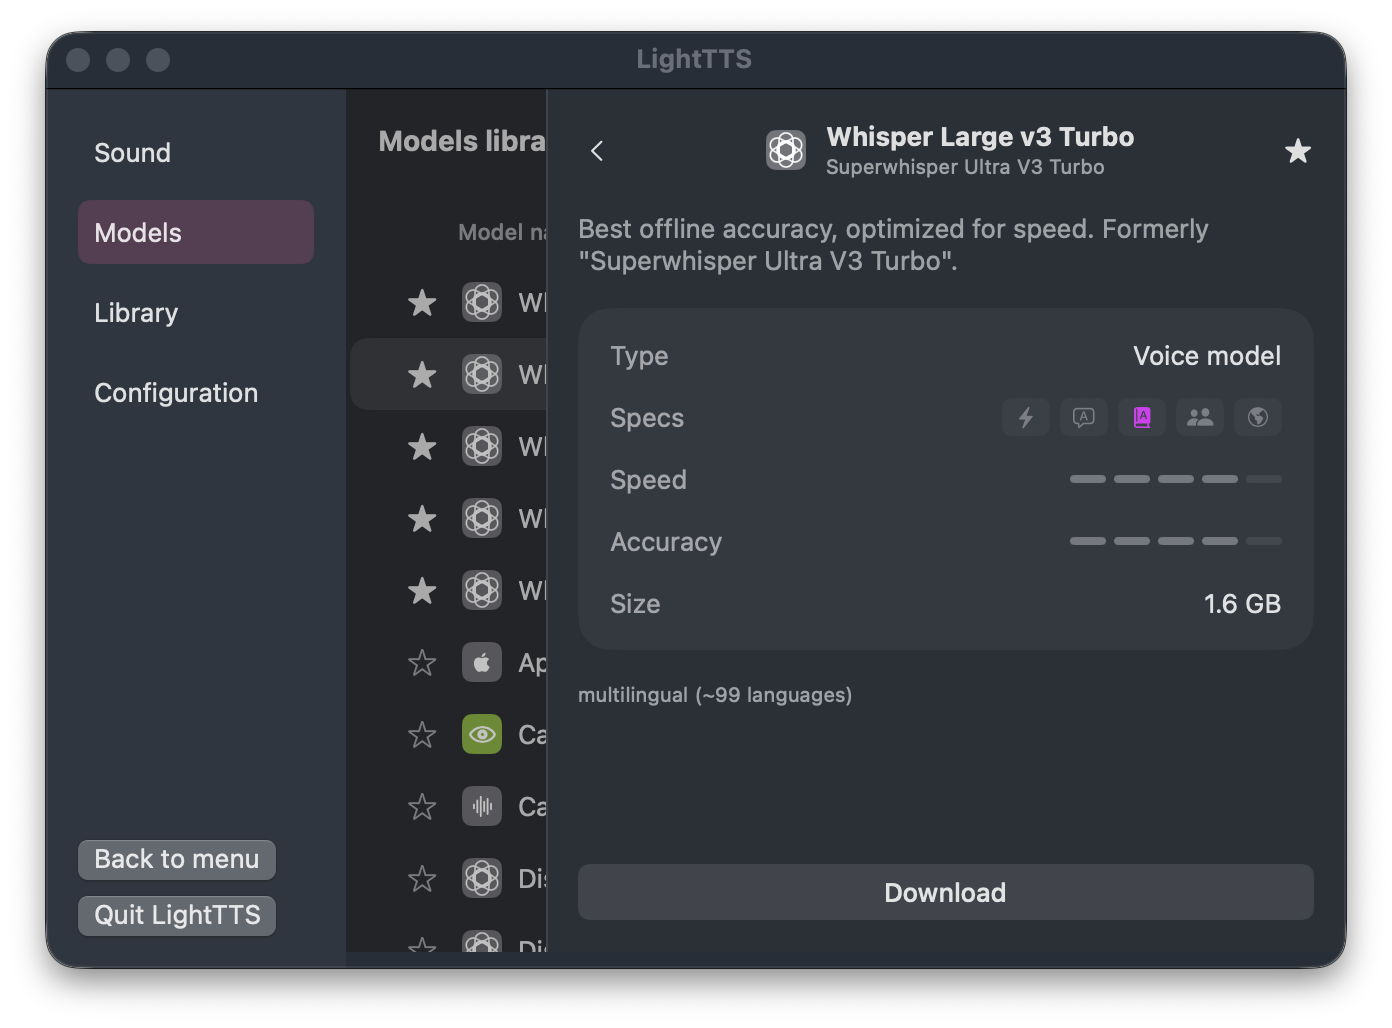
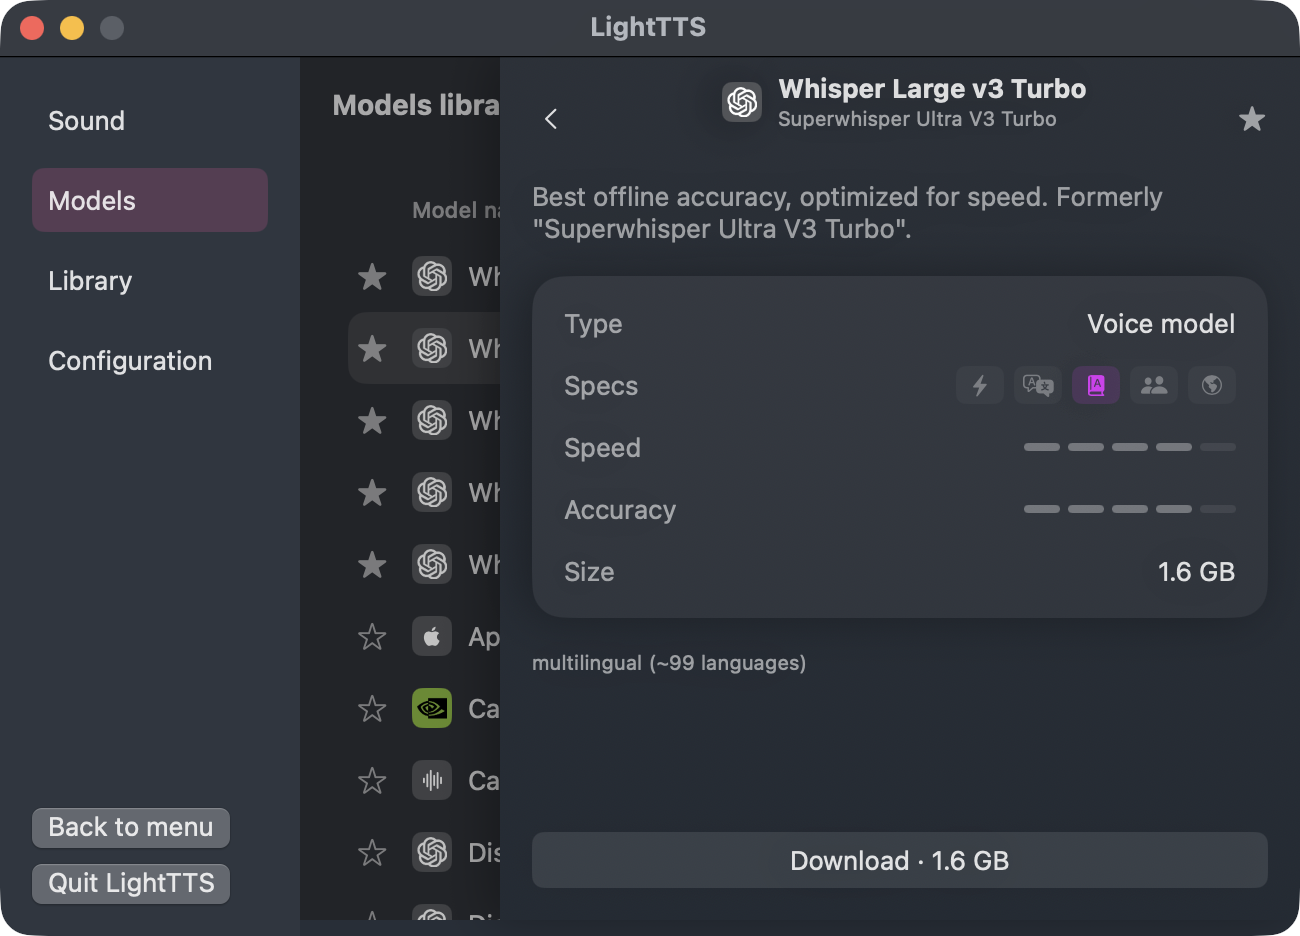
Refine models library reference styling

diff --git a/Sources/LightTTS/Views/Settings/Models/ModelsPageView.swift b/Sources/LightTTS/Views/Settings/Models/ModelsPageView.swift
@@ -9,7 +9,6 @@ private final class ModelsPageState: ObservableObject {
     @Published var detail: Model?
     @Published var custom = false
     @Published var cloud = false
-    @Published var deleting: Model?
     @Published var sortColumn = ""
     @Published var ascending = true
 }
@@ -23,6 +22,7 @@ private final class CustomModelState: ObservableObject {
 
 struct ModelsPageView: View {
     @ObservedObject var controller: AppController
+    @Binding var deleting: Model?
     @Environment(\.colorScheme) private var colorScheme
     @AppStorage("selectedModel") private var selectedModel = "whisper-tiny.en"
     @AppStorage("favoriteModels") private var favorites = "whisper-large-v3,whisper-large-v3-turbo,whisper-medium,whisper-small,whisper-small.en"
@@ -58,10 +58,10 @@ struct ModelsPageView: View {
                         Image(systemName: "magnifyingglass").foregroundStyle(.secondary)
                         TextField("Search models", text: $ui.query).textFieldStyle(.plain)
                         if !ui.query.isEmpty { Button { ui.query = "" } label: { Image(systemName: "xmark.circle.fill").foregroundStyle(.secondary) }.buttonStyle(.plain).help("Clear search") }
-                    }.font(.system(size: 13)).padding(.horizontal, 10).frame(width: 220, height: 28).background(Color.primary.opacity(0.08), in: Capsule()).overlay(Capsule().stroke(Color.primary.opacity(0.13), lineWidth: 0.5))
+                    }.font(.system(size: 13)).padding(.horizontal, 10).frame(width: 220, height: 28).background(.ultraThinMaterial, in: Capsule()).overlay(Capsule().stroke(Color.primary.opacity(0.14), lineWidth: 0.5)).overlay(Capsule().stroke(Color.white.opacity(colorScheme == .light ? 0.4 : 0.08), lineWidth: 0.5).padding(1))
                 } else { Button { ui.searching = true } label: { Image(systemName: "magnifyingglass") }.buttonStyle(CircleButton()).help("Search") }
                 Menu { Toggle("Downloaded only", isOn: $ui.installedOnly) } label: { toolbarIcon("line.3.horizontal.decrease") }.menuStyle(.borderlessButton).menuIndicator(.hidden).frame(width: 28, height: 28).background(Color.primary.opacity(0.07), in: Circle()).overlay(Circle().stroke(Color.primary.opacity(0.12), lineWidth: 0.5)).help("Filters")
-                Menu { Button("Add cloud model…") { ui.cloud = true }; Button("Add local model…") { ui.custom = true } } label: { toolbarIcon("key.fill", plus: true) }.menuStyle(.borderlessButton).menuIndicator(.hidden).frame(width: 28, height: 28).background(Color.primary.opacity(0.07), in: Circle()).overlay(Circle().stroke(Color.primary.opacity(0.12), lineWidth: 0.5)).help("Bring your own key")
+                Menu { Button("Add cloud model…") { ui.cloud = true }; Button("Add local model…") { ui.custom = true } } label: { Image(nsImage: keyPlusImage) }.menuStyle(.borderlessButton).menuIndicator(.hidden).frame(width: 28, height: 28).background(Color.primary.opacity(0.07), in: Circle()).overlay(Circle().stroke(Color.primary.opacity(0.12), lineWidth: 0.5)).help("Bring your own key")
             }.padding(.horizontal, 16).padding(.top, 10).padding(.bottom, 12)
             library
             if !controller.message.isEmpty { Text(controller.message).font(.caption).foregroundStyle(.red).padding(.horizontal, 20).padding(.bottom, 8) }
@@ -71,8 +71,8 @@ struct ModelsPageView: View {
         .overlay(alignment: .trailing) {
             if let model = ui.detail {
                 detailView(model).frame(width: 400).frame(maxHeight: .infinity)
-                    .background(colorScheme == .dark ? Color(red: 42/255, green: 48/255, blue: 56/255) : Color(red: 231/255, green: 235/255, blue: 240/255))
-                    .overlay(alignment: .leading) { Rectangle().fill(Color.primary.opacity(0.12)).frame(width: 1) }
+                    .background(LinearGradient(colors: colorScheme == .dark ? [Color(red: 43/255, green: 49/255, blue: 57/255), Color(red: 35/255, green: 43/255, blue: 52/255)] : [Color(red: 235/255, green: 237/255, blue: 240/255), Color(red: 225/255, green: 229/255, blue: 234/255)], startPoint: .top, endPoint: .bottom))
+                    .shadow(color: .black.opacity(colorScheme == .dark ? 0.3 : 0.14), radius: 12, x: -5, y: 0)
             }
         }
         .task { await ModelStore.refreshAppleStatus(); controller.objectWillChange.send() }
@@ -80,26 +80,18 @@ struct ModelsPageView: View {
         .onReceive(NotificationCenter.default.publisher(for: NSLocale.currentLocaleDidChangeNotification)) { _ in Task { await ModelStore.refreshAppleStatus(); controller.objectWillChange.send() } }
         .sheet(isPresented: $ui.custom) { CustomModelSheet(controller: controller) }
         .sheet(isPresented: $ui.cloud) { CloudModelSheet(controller: controller) }
-        .overlay {
-            if let model = ui.deleting {
-                ZStack {
-                    Color.black.opacity(0.28).ignoresSafeArea()
-                    VStack(spacing: 12) {
-                        Text("Delete \(displayName(model))").font(.system(size: 13, weight: .bold)).multilineTextAlignment(.center)
-                        Text(model.engine == "apple" ? "LightTTS will forget this selection; macOS manages the speech assets." : model.engine == "cloud" ? "The model and its API key will be removed." : "Are you sure you want to delete this model?").font(.system(size: 12)).multilineTextAlignment(.center).foregroundStyle(.secondary)
-                        HStack(spacing: 8) {
-                            Button("Cancel") { ui.deleting = nil }.buttonStyle(FooterButton()).keyboardShortcut(.cancelAction)
-                            Button("Delete", role: .destructive) { do { try controller.deleteModel(model) } catch { controller.message = error.localizedDescription }; ui.deleting = nil }.buttonStyle(DestructiveFooterButton())
-                        }
-                    }.padding(18).frame(width: 260).background(colorScheme == .dark ? Color(red: 54/255, green: 58/255, blue: 65/255) : Color(red: 231/255, green: 235/255, blue: 240/255), in: RoundedRectangle(cornerRadius: 14)).overlay(RoundedRectangle(cornerRadius: 14).stroke(Color.primary.opacity(0.15), lineWidth: 0.5)).shadow(radius: 18)
-                }
-            }
-        }
+    }
+    private var keyPlusImage: NSImage {
+        let image = NSImage(contentsOf: Bundle.module.url(forResource: "key-plus", withExtension: "png")!)!
+        image.isTemplate = true
+        image.size = NSSize(width: 16, height: 16)
+        return image
     }
     private func toolbarIcon(_ name: String, plus: Bool = false) -> some View {
         ZStack(alignment: .topTrailing) {
-            Image(systemName: name).font(.system(size: 13, weight: .medium)).rotationEffect(.degrees(plus ? 45 : 0)).frame(width: 28, height: 28)
-            if plus { Image(systemName: "plus.circle.fill").font(.system(size: 9)).offset(x: -3, y: 1) }
+            if plus {
+                Image(nsImage: keyPlusImage).resizable().frame(width: 28, height: 28)
+            } else { Image(systemName: name).font(.system(size: 13, weight: .medium)).frame(width: 28, height: 28) }
         }.background(Color.primary.opacity(0.07), in: Circle()).overlay(Circle().stroke(Color.primary.opacity(0.12), lineWidth: 0.5))
     }
     private var library: some View {
@@ -112,7 +104,7 @@ struct ModelsPageView: View {
                     sortHeader("Type").frame(width: compact ? 30 : 42, alignment: .leading)
                     sortHeader("Speed / Accuracy").lineLimit(1).minimumScaleFactor(0.75).frame(width: compact ? 85 : 110, alignment: .leading)
                     sortHeader("Cloud/Offline").frame(width: 90, alignment: .trailing)
-                }.font(.system(size: 11, weight: .medium)).foregroundStyle(.secondary).padding(.leading, 56).padding(.trailing, compact ? 18 : 28).padding(.top, 18).padding(.bottom, 8)
+                }.font(.system(size: 11, weight: .medium)).foregroundStyle(.secondary).padding(.leading, 56).padding(.trailing, compact ? 18 : 28).padding(.top, 20).padding(.bottom, 8)
                 ScrollView { LazyVStack(spacing: 0) { ForEach(visible) { model in
                     HStack(spacing: 8) {
                         Button { toggleFavorite(model) } label: { Image(systemName: favoriteIDs.contains(model.id) ? "star.fill" : "star").foregroundStyle(Color.secondary).frame(width: 24) }.buttonStyle(.plain)
@@ -144,8 +136,8 @@ struct ModelsPageView: View {
         VStack(alignment: .leading, spacing: 16) {
             HStack(spacing: 8) {
                 Button { ui.detail = nil } label: { Image(systemName: "chevron.left").font(.system(size: 12)) }.buttonStyle(.plain).frame(width: 20, height: 28)
-                Spacer(); provider(model)
-                VStack(alignment: .leading, spacing: 1) { Text(displayName(model)).font(.system(size: 13, weight: .bold)); Text(subtitle(model)).font(.system(size: 10)).foregroundStyle(.secondary) }
+                Spacer(); provider(model).offset(y: -8)
+                VStack(alignment: .leading, spacing: 1) { Text(displayName(model)).font(.system(size: 13, weight: .bold)); Text(subtitle(model)).font(.system(size: 10)).foregroundStyle(.secondary) }.offset(y: -8)
                 Spacer(); Button { toggleFavorite(model) } label: { Image(systemName: favoriteIDs.contains(model.id) ? "star.fill" : "star").foregroundStyle(.secondary) }.buttonStyle(.plain)
             }
             Text(engineDescription(model)).font(.system(size: 13)).foregroundStyle(.secondary).fixedSize(horizontal: false, vertical: true)
@@ -155,14 +147,14 @@ struct ModelsPageView: View {
                 HStack { Text("Speed"); Spacer(); rating(speed(model), detail: true) }.frame(height: 31)
                 HStack { Text("Accuracy"); Spacer(); rating(accuracy(model), detail: true) }.frame(height: 31)
                 HStack { Text("Size"); Spacer(); Text(model.engine == "cloud" ? "Cloud" : size(model)).foregroundStyle(.primary) }.frame(height: 31)
-            }.foregroundStyle(.secondary).font(.system(size: 13)).padding(.horizontal, 16).padding(.vertical, 8).background(colorScheme == .dark ? Color(red: 51/255, green: 56/255, blue: 64/255) : Color(red: 218/255, green: 224/255, blue: 231/255), in: RoundedRectangle(cornerRadius: 16))
+            }.foregroundStyle(.secondary).font(.system(size: 13)).padding(.horizontal, 16).padding(.vertical, 8).background(LinearGradient(colors: colorScheme == .dark ? [Color(red: 52/255, green: 57/255, blue: 65/255), Color(red: 48/255, green: 54/255, blue: 62/255)] : [Color(red: 224/255, green: 227/255, blue: 231/255), Color(red: 216/255, green: 221/255, blue: 227/255)], startPoint: .top, endPoint: .bottom), in: RoundedRectangle(cornerRadius: 16))
             if model.engine == "canary" || model.version == "nemo_canary" { CanaryLanguagePicker(model: model, controller: controller) }
             else if let languages = model.languages { Text(languages.joined(separator: ", ")).font(.caption).foregroundStyle(.secondary).lineLimit(1) }
             Spacer()
             HStack(spacing: 8) {
                 if ModelStore.exists(model) {
                     Button(selectedModel == model.id ? "Selected" : "Use in all modes") { selectedModel = model.id; controller.warmSelected() }.buttonStyle(FooterButton()).disabled(selectedModel == model.id)
-                    Button { ui.deleting = model } label: { Image(systemName: "trash.fill").frame(width: 28, height: 28).background(Color.primary.opacity(0.12), in: RoundedRectangle(cornerRadius: 6)) }.buttonStyle(.plain)
+                    Button { deleting = model } label: { Image(systemName: "trash.fill").frame(width: 28, height: 28).background(Color.primary.opacity(0.12), in: RoundedRectangle(cornerRadius: 6)) }.buttonStyle(.plain)
                 } else if controller.busyModel == model.id { Text("Downloading \(Int(controller.downloadProgress * 100))%"); Spacer(); progressButton }
                 else { Button("Download · \(size(model))") { controller.download(model) }.buttonStyle(FooterButton()).disabled(controller.busyModel != nil) }
             }
@@ -171,14 +163,14 @@ struct ModelsPageView: View {
     private func specs(_ model: Model) -> some View {
         HStack(spacing: 5) { ForEach(["bolt.fill", "translate", "character.book.closed.fill", "person.2.fill", "globe.americas.fill"], id: \.self) { symbol in
             let active = (symbol == "translate" && ["whisper-tiny", "whisper-medium"].contains(model.id)) || (symbol == "character.book.closed.fill" && ["whisper-medium", "whisper-large-v3-turbo"].contains(model.id))
-            Image(systemName: symbol).font(.system(size: 10)).foregroundStyle(active ? Color.white : Color.secondary.opacity(0.6)).frame(width: 24, height: 19).background(active ? (symbol == "translate" ? Color.blue.opacity(0.65) : Color.purple.opacity(0.65)) : Color.primary.opacity(0.04), in: RoundedRectangle(cornerRadius: 5))
+            Image(systemName: symbol).font(.system(size: 10)).foregroundStyle(active ? (symbol == "translate" ? Color.blue : Color.purple) : Color.secondary.opacity(0.6)).frame(width: 24, height: 19).background(active ? (symbol == "translate" ? Color.blue.opacity(0.15) : Color.purple.opacity(0.15)) : Color.primary.opacity(0.04), in: RoundedRectangle(cornerRadius: 5))
         } }
     }
     private func subtitle(_ model: Model) -> String { switch model.id { case "whisper-large-v3-turbo": return "Superwhisper Ultra V3 Turbo"; case "whisper-medium": return "Superwhisper Pro"; case "whisper-tiny": return "Superwhisper Fast"; default: return providerName(model) } }
     private func speed(_ model: Model) -> Int? { switch model.id { case "whisper-large-v3": return 3; case "whisper-small", "whisper-small.en": return 4; default: return model.speed } }
     private func accuracy(_ model: Model) -> Int? { switch model.id { case "whisper-large-v3": return 5; case "whisper-medium": return 4; case "whisper-small", "whisper-small.en": return 2; default: return model.accuracy } }
     private func displayName(_ model: Model) -> String {
-        switch model.id { case "whisper-large-v3": return "Whisper Large"; case "whisper-large-v3-turbo": return "Whisper Large v3 Turbo"; case "whisper-medium": return "Whisper Medium"; case "whisper-small", "whisper-small.en": return "Whisper Small"; default: return model.name.replacingOccurrences(of: ".en", with: "") }
+        switch model.id { case "whisper-large-v3": return "Whisper Large"; case "whisper-large-v3-turbo": return "Whisper Large v3 Turbo"; case "whisper-medium": return "Whisper Medium"; case "whisper-small", "whisper-small.en": return "Whisper Small"; case "whisper-tiny", "whisper-tiny.en": return "Whisper Tiny"; default: return model.name.replacingOccurrences(of: ".en", with: "") }
     }
     private func providerName(_ model: Model) -> String {
         switch model.engine { case "cloud": return model.cloudProvider?.title ?? "Cloud"; case "parakeet", "canary": return "NVIDIA"; case "sherpa": return "ONNX"; case "apple": return "Apple"; default: return "OpenAI" }
@@ -192,8 +184,8 @@ struct ModelsPageView: View {
     private func provider(_ model: Model) -> some View { ProviderMark(name: providerName(model)).frame(width: 20, height: 20) }
     private func ratings(_ model: Model) -> some View { VStack(alignment: .leading, spacing: 4) { rating(speed(model)); rating(accuracy(model)) } }
     private func rating(_ value: Int?, detail: Bool = false) -> some View { HStack(spacing: detail ? 4 : 2) { ForEach(0..<5) { i in Capsule().fill(i < (value ?? 0) ? Color.primary.opacity(0.38) : Color.primary.opacity(0.09)).frame(width: detail ? 18 : 15, height: detail ? 4 : 2) } } }
-    private func size(_ model: Model) -> String { guard let value = model.size else { return "—" }; if model.id == "whisper-large-v3" { return "3 GB" }; if ["whisper-small", "whisper-small.en"].contains(model.id) { return "500 MB" }; if value >= 1_000_000_000 { return String(format: "%.1f GB", Double(value) / 1_000_000_000) }; return ByteCountFormatter.string(fromByteCount: value, countStyle: .file) }
-    private func action(_ model: Model) -> some View { Button { if ModelStore.exists(model) { ui.deleting = model } else { controller.download(model) } } label: { Image(systemName: ModelStore.exists(model) ? "trash.fill" : "arrow.down").font(.system(size: 10)).foregroundStyle(.secondary).frame(width: 15, height: 15).background(ModelStore.exists(model) ? Color.clear : Color.primary.opacity(0.07), in: Circle()).frame(width: 21, height: 21).background(ModelStore.exists(model) ? Color.primary.opacity(0.08) : .clear, in: Circle()).overlay(Circle().stroke(ModelStore.exists(model) ? .clear : Color.primary.opacity(0.35), lineWidth: 1)) }.buttonStyle(.plain).disabled(controller.busyModel != nil).help(ModelStore.exists(model) ? "Delete" : "Download") }
+    private func size(_ model: Model) -> String { guard let value = model.size else { return "—" }; if model.id == "whisper-large-v3" { return "3 GB" }; if ["whisper-tiny", "whisper-tiny.en"].contains(model.id) { return "75 MB" }; if ["whisper-small", "whisper-small.en"].contains(model.id) { return "500 MB" }; if value >= 1_000_000_000 { return String(format: "%.1f GB", Double(value) / 1_000_000_000) }; return ByteCountFormatter.string(fromByteCount: value, countStyle: .file) }
+    private func action(_ model: Model) -> some View { Button { if ModelStore.exists(model) { deleting = model } else { controller.download(model) } } label: { Image(systemName: ModelStore.exists(model) ? "trash.fill" : "arrow.down").font(.system(size: 10)).foregroundStyle(.secondary).frame(width: 15, height: 15).background(ModelStore.exists(model) ? Color.clear : Color.primary.opacity(0.07), in: Circle()).frame(width: 21, height: 21).background(ModelStore.exists(model) ? Color.primary.opacity(0.08) : .clear, in: Circle()).overlay(Circle().stroke(ModelStore.exists(model) ? .clear : Color.primary.opacity(0.35), lineWidth: 1)) }.buttonStyle(.plain).disabled(controller.busyModel != nil).help(ModelStore.exists(model) ? "Delete" : "Download") }
     private func toggleFavorite(_ model: Model) { var ids = favoriteIDs; if !ids.insert(model.id).inserted { ids.remove(model.id) }; favorites = ids.sorted().joined(separator: ",") }
 }
 
@@ -201,12 +193,13 @@ private struct ProviderMark: View {
     let name: String
     var body: some View {
         ZStack {
-            RoundedRectangle(cornerRadius: 5).fill(name == "NVIDIA" ? Color(red: 130/255, green: 181/255, blue: 47/255) : Color.gray.opacity(0.65))
-            if name == "OpenAI" { ForEach(0..<6) { i in Capsule().stroke(Color.white, lineWidth: 0.8).frame(width: 7, height: 13).offset(y: -2).rotationEffect(.degrees(Double(i) * 60)) } }
+            RoundedRectangle(cornerRadius: 5).fill(name == "NVIDIA" ? Color(red: 130/255, green: 181/255, blue: 47/255) : Color(red: 83/255, green: 86/255, blue: 90/255))
+            if name == "OpenAI" || name == "NVIDIA" { Image(nsImage: NSImage(contentsOf: Bundle.module.url(forResource: name == "OpenAI" ? "openai" : "nvidia", withExtension: "png")!)!).resizable().aspectRatio(contentMode: .fit).frame(width: 15, height: 15) }
             else { Image(systemName: name == "NVIDIA" ? "eye" : name == "Apple" ? "apple.logo" : name == "Cloud" ? "cloud.fill" : "waveform").font(.system(size: 10, weight: .semibold)).foregroundStyle(.white) }
         }
     }
 }
+
 private struct CircleButton: ButtonStyle {
     func makeBody(configuration: Configuration) -> some View { configuration.label.font(.system(size: 13, weight: .medium)).frame(width: 28, height: 28).background(Color.primary.opacity(configuration.isPressed ? 0.17 : 0.07), in: Circle()).overlay(Circle().stroke(Color.primary.opacity(0.12), lineWidth: 0.5)) }
 }

diff --git a/Sources/LightTTS/Views/Settings/SettingsView.swift b/Sources/LightTTS/Views/Settings/SettingsView.swift
@@ -3,10 +3,14 @@ import AppKit
 import LightTTSCore
 import ApplicationServices
 
+private final class SettingsDialogState: ObservableObject { @Published var deleting: Model? }
+
 struct SettingsView: View {
     @ObservedObject var controller: AppController
     var detach: () -> Void
     var attached: Bool
+    @StateObject private var dialog = SettingsDialogState()
+    @Environment(\.colorScheme) private var colorScheme
     @AppStorage("selectedModel") private var selectedModel = "whisper-tiny.en"
     @AppStorage("pushToTalk") private var pushToTalk = false
     @AppStorage("rightOption") private var rightOption = false
@@ -14,6 +18,16 @@ struct SettingsView: View {
     @AppStorage("customModelURL") private var customModelURL = ""
     @AppStorage("customModelSHA256") private var customModelSHA256 = ""
     @AppStorage("hotkeyCode") private var hotkeyCode = 49
+    private func alertName(_ model: Model) -> String {
+        switch model.id {
+        case "whisper-large-v3": return "Whisper Large"
+        case "whisper-large-v3-turbo": return "Whisper Large v3 Turbo"
+        case "whisper-medium": return "Whisper Medium"
+        case "whisper-small", "whisper-small.en": return "Whisper Small"
+        case "whisper-tiny", "whisper-tiny.en": return "Whisper Tiny"
+        default: return model.name
+        }
+    }
     var body: some View {
         HStack(spacing: 0) {
             VStack(alignment: .leading) {
@@ -25,7 +39,7 @@ struct SettingsView: View {
                 switch controller.settingsSelection {
                 case "Sound": Text("Microphone: system default"); Text("Audio is processed locally at 16 kHz mono.").foregroundStyle(.secondary)
                 case "Models":
-                    ModelsPageView(controller: controller)
+                    ModelsPageView(controller: controller, deleting: $dialog.deleting)
                 case "Library": ScrollView { LazyVStack(alignment: .leading) { ForEach(controller.history) { item in VStack(alignment: .leading) { Text(item.text); Text(item.date, style: .date).font(.caption).foregroundStyle(.secondary) }.frame(maxWidth: .infinity, alignment: .leading); Divider() } } }
                 default:
                     Toggle("Push to talk", isOn: $pushToTalk)
@@ -38,6 +52,28 @@ struct SettingsView: View {
                 }
                 Spacer()
             }.padding(controller.settingsSelection == "Models" ? 0 : 16).frame(maxWidth: .infinity, maxHeight: .infinity, alignment: .topLeading)
-        }.frame(width: 650, height: 440).onChange(of: selectedModel) { _ in controller.warmSelected() }
+        }.frame(width: 650, height: 440)
+        .overlay {
+            if let model = dialog.deleting {
+                ZStack {
+                    Color.black.opacity(0.28).ignoresSafeArea()
+                    VStack(alignment: .leading, spacing: 12) {
+                        Text("Delete \(alertName(model))").font(.system(size: 13, weight: .bold))
+                        Text(model.engine == "apple" ? "LightTTS will forget this selection; macOS manages the speech assets." : model.engine == "cloud" ? "The model and its API key will be removed." : "Are you sure you want to delete this model?").font(.system(size: 12)).foregroundStyle(.secondary)
+                        HStack(spacing: 8) {
+                            Button("Cancel") { dialog.deleting = nil }.keyboardShortcut(.cancelAction).buttonStyle(AlertButton(destructive: false))
+                            Button("Delete", role: .destructive) { do { try controller.deleteModel(model) } catch { controller.message = error.localizedDescription }; dialog.deleting = nil }.buttonStyle(AlertButton(destructive: true))
+                        }
+                    }.padding(20).frame(width: 280).background(colorScheme == .dark ? Color(red: 54/255, green: 58/255, blue: 65/255) : Color(red: 231/255, green: 235/255, blue: 240/255), in: RoundedRectangle(cornerRadius: 22)).shadow(radius: 18)
+                }
+            }
+        }.onChange(of: selectedModel) { _ in controller.warmSelected() }
+    }
+}
+
+private struct AlertButton: ButtonStyle {
+    let destructive: Bool
+    func makeBody(configuration: Configuration) -> some View {
+        configuration.label.font(.system(size: 13)).foregroundStyle(destructive ? Color.red : Color.primary).frame(maxWidth: .infinity).frame(height: 30).background(destructive ? Color.red.opacity(configuration.isPressed ? 0.3 : 0.2) : Color.primary.opacity(configuration.isPressed ? 0.2 : 0.12), in: Capsule())
     }
 }

diff --git a/Package.swift b/Package.swift
@@ -5,7 +5,7 @@ let package = Package(name: "LightTTS", platforms: [.macOS(.v14)], products: [.e
     .target(name: "LightTTSCore", resources: [.process("Resources")]),
     .target(name: "LightTTSInference", dependencies: ["LightTTSCore", .product(name: "FluidAudio", package: "FluidAudio"), .product(name: "sherpa-onnx", package: "sherpa-onnx"), "whisper"]),
     .executableTarget(name: "LightTTSEngine", dependencies: ["LightTTSInference", .product(name: "FluidAudio", package: "FluidAudio")]),
-    .executableTarget(name: "LightTTS", dependencies: ["LightTTSCore"]),
+    .executableTarget(name: "LightTTS", dependencies: ["LightTTSCore"], resources: [.process("Resources")]),
     .executableTarget(name: "LightTTSCLI", dependencies: ["LightTTSCore", "LightTTSInference", .product(name: "FluidAudio", package: "FluidAudio")]),
     .executableTarget(name: "model-validation", dependencies: ["LightTTSCore"]),
     .executableTarget(name: "cloud-validation", dependencies: ["LightTTSCore", "LightTTSInference"])
